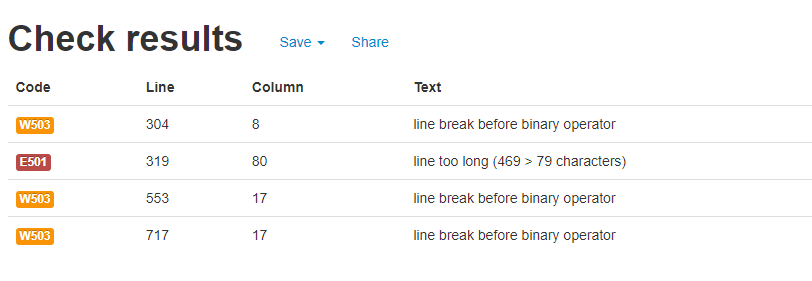
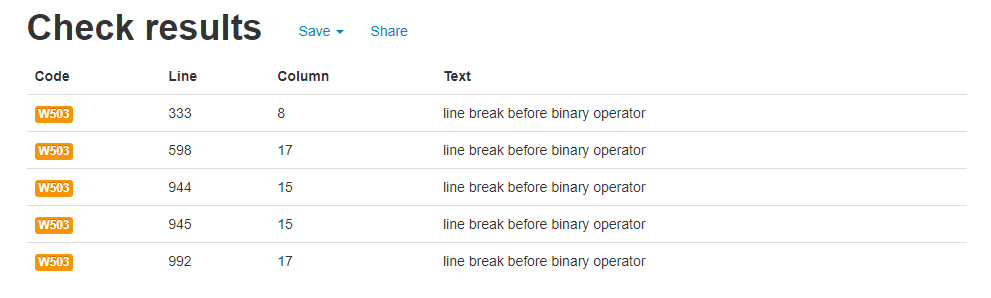
Docs - add pep8online final report

diff --git a/README.md b/README.md
@@ -255,38 +255,38 @@ By forking out of this repository you will be able to view and edit the code wit
 
 1. Change database
 
-    The system of saving data that I have introduced inputs new column each time a new user is registered. This makes the spreadsheet really big.
-    I have prepared the spreadsheet to accomodate booking untill 26/05/2024. Any further booking would requre manualy extending the spreadsheet to add more rows and more dates. 
-    Each booking should be registered as a new row with email, date, room as the columns and have unique refference number. This way user could easily reffer to this particular booking, cancel it or change it.
+    The system of saving data that I have introduced inputs a new column each time a new user is registered. This makes the spreadsheet really big.
+    I have prepared the spreadsheet to accommodate booking until 26/05/2024. Any further booking would require manually extending the spreadsheet to add more rows and more dates. 
+    Each booking should be registered as a new row with email, date, room as the columns and have a unique reference number. This way the user would be able to easily refer to this particular booking, cancel it or change it.
 
-    Gspread has also strong limitations on number of API requests. It was not good for the testing of the app. I can also see the problems if the hotel was introducing any last minute deals - the database would get blocked with too many clients trying to book at the same time.
+    Gspread has also strong limitations on a number of API requests. It was not good for the testing of the app. I can also see the problems if the hotel was introducing any last-minute deals - the database would get blocked with too many clients trying to book at the same time.
 
 2. Connect to the live page of the hotel
 
     Live page cor Cath's cats Castle can be found [here](https://jogorska.github.io/Luxury_cat_hotel/index.html).
 
-    The comandline interface is not user friendly. User needs to be able to see the rooms, while he makes a choise. 
+    The command-line interface is not user-friendly. The user needs to be able to see the rooms, while he makes a choice. 
 
-    Also booking a cat into a cattery requires the cat owner to put a lot of data of the cat, so appropriate care can be put in place. Inputing data on a comandline interface can be difficult. It is so much better to use HTML form with drop downs and radio buttons plus validation suggesting the correct format before form is subbmited. 
+    Also booking a cat into a cattery requires the cat owner to put a lot of data of the cat, so appropriate care can be put in place. Inputting data on a command-line interface can be difficult. It is so much better to use HTML form with dropdowns and radio buttons plus validation suggesting the correct format before the form is submitted. 
 
 
 ## User stories
 
 ### First time visitor
 
-- I want be able to add a booking
+- I want to be able to add a booking
 - I want to be able to check if the room is available for me to book
-- Once I added my booking I want to be able to change it or cancell.
+- Once I added my booking I want to be able to change it or cancel.
 - I want to be able to print my booking.
 - I want to be able to quit the program and not continue with the booking.
 
 ### The goals were accomplished in the following ways
 
-- First time visitor is given option to add booking.
-- First time visitor can use option to show room's availiblity. User can choose dates and room, that we wants to check. 
-- Once his new booking is saved, he is given options to change it or cancell
-- After the booking is completed the user can print his own booking to the terminal
-- User can quit the program as soon as the options are shown. This can be after he has input his email or after completed booking
+- First time visitor is given the option to add booking.
+- First-time visitor can use the option to show the room's availability. The user can choose dates and a room, that he wants to check. 
+- Once his new booking is saved, he is given options to change it or cancel
+- After the booking is completed the user can print his booking to the terminal
+- User can quit the program as soon as the options are shown. This can be after he has input his email or after completed the booking
 
 ### Returning visitor
 
@@ -294,14 +294,14 @@ By forking out of this repository you will be able to view and edit the code wit
 - I want to be able to add a new booking.
 - I want to be able to change my booking.
 - I want to be able to cancel my booking.
-- I would like to be able to check if the room is available in my choosen dates
-- I would like to check my own booking.
+- I would like to be able to check if the room is available on my chosen dates
+- I would like to check my booking.
 
 ### The goals were accomplished in the following ways
 
-- Program check user's email and displays welcome message when email is found in the database.
-- The option to show room's availiblity is enabled for returning customer as well. User can choose dates and room, that we wants to check. 
-- Once his new booking is saved, he is given options to change it or cancell
+- Program checks the user's email and displays a welcome message when the email is found in the database.
+- The option to show room's availability is enabled for returning customer as well. User can choose dates and room, that we wants to check. 
+- Once his new booking is saved, he is given options to change it or cancel
 - After the booking is completed the user can print his own booking to the terminal
 - User can quit the program as soon as the options are shown. This can be after he has input his email or after completed booking
 
@@ -323,13 +323,12 @@ By forking out of this repository you will be able to view and edit the code wit
 1. [Pep8online](http://pep8online.com/)
 
 
-The code has been put through validation Pep8online. I have checked the errors displayed initialy. The error reports can be found here: [first report](assets/images/pep8-errors.png), [second report](assets/images/pep8-final.png). Final version of the report can be found below:
+The code has been put through validation Pep8online. I have checked the errors displayed initially. The error reports can be found here: [first report](assets/images/pep8-errors.png), [third reprot from pep8](assets/images/pep8-third.png). The final version of the report can be found below:
 
-Line 326, 589. 753, 754 - if statement is very long in those lines and had to be split into two lines. Pip8 returns it as an errror, alternative would be to have whole if statement in one line - than pip8 would return error - line too long. 
+Line 333, 598. 944, 945, 992 - if statement is very long in those lines and had to be split into two lines. Pip8 returns it as an error, alternative would be to have the whole if statement in one line - then pip8 would return the error - line too long. 
 
 
-![third and final reprot from pep8](assets/images/pep8-third.png)
-
+![final report](assets/images/pep8-final.png)
 
 2. Different operating system
     * Windows computer: all working correctly
